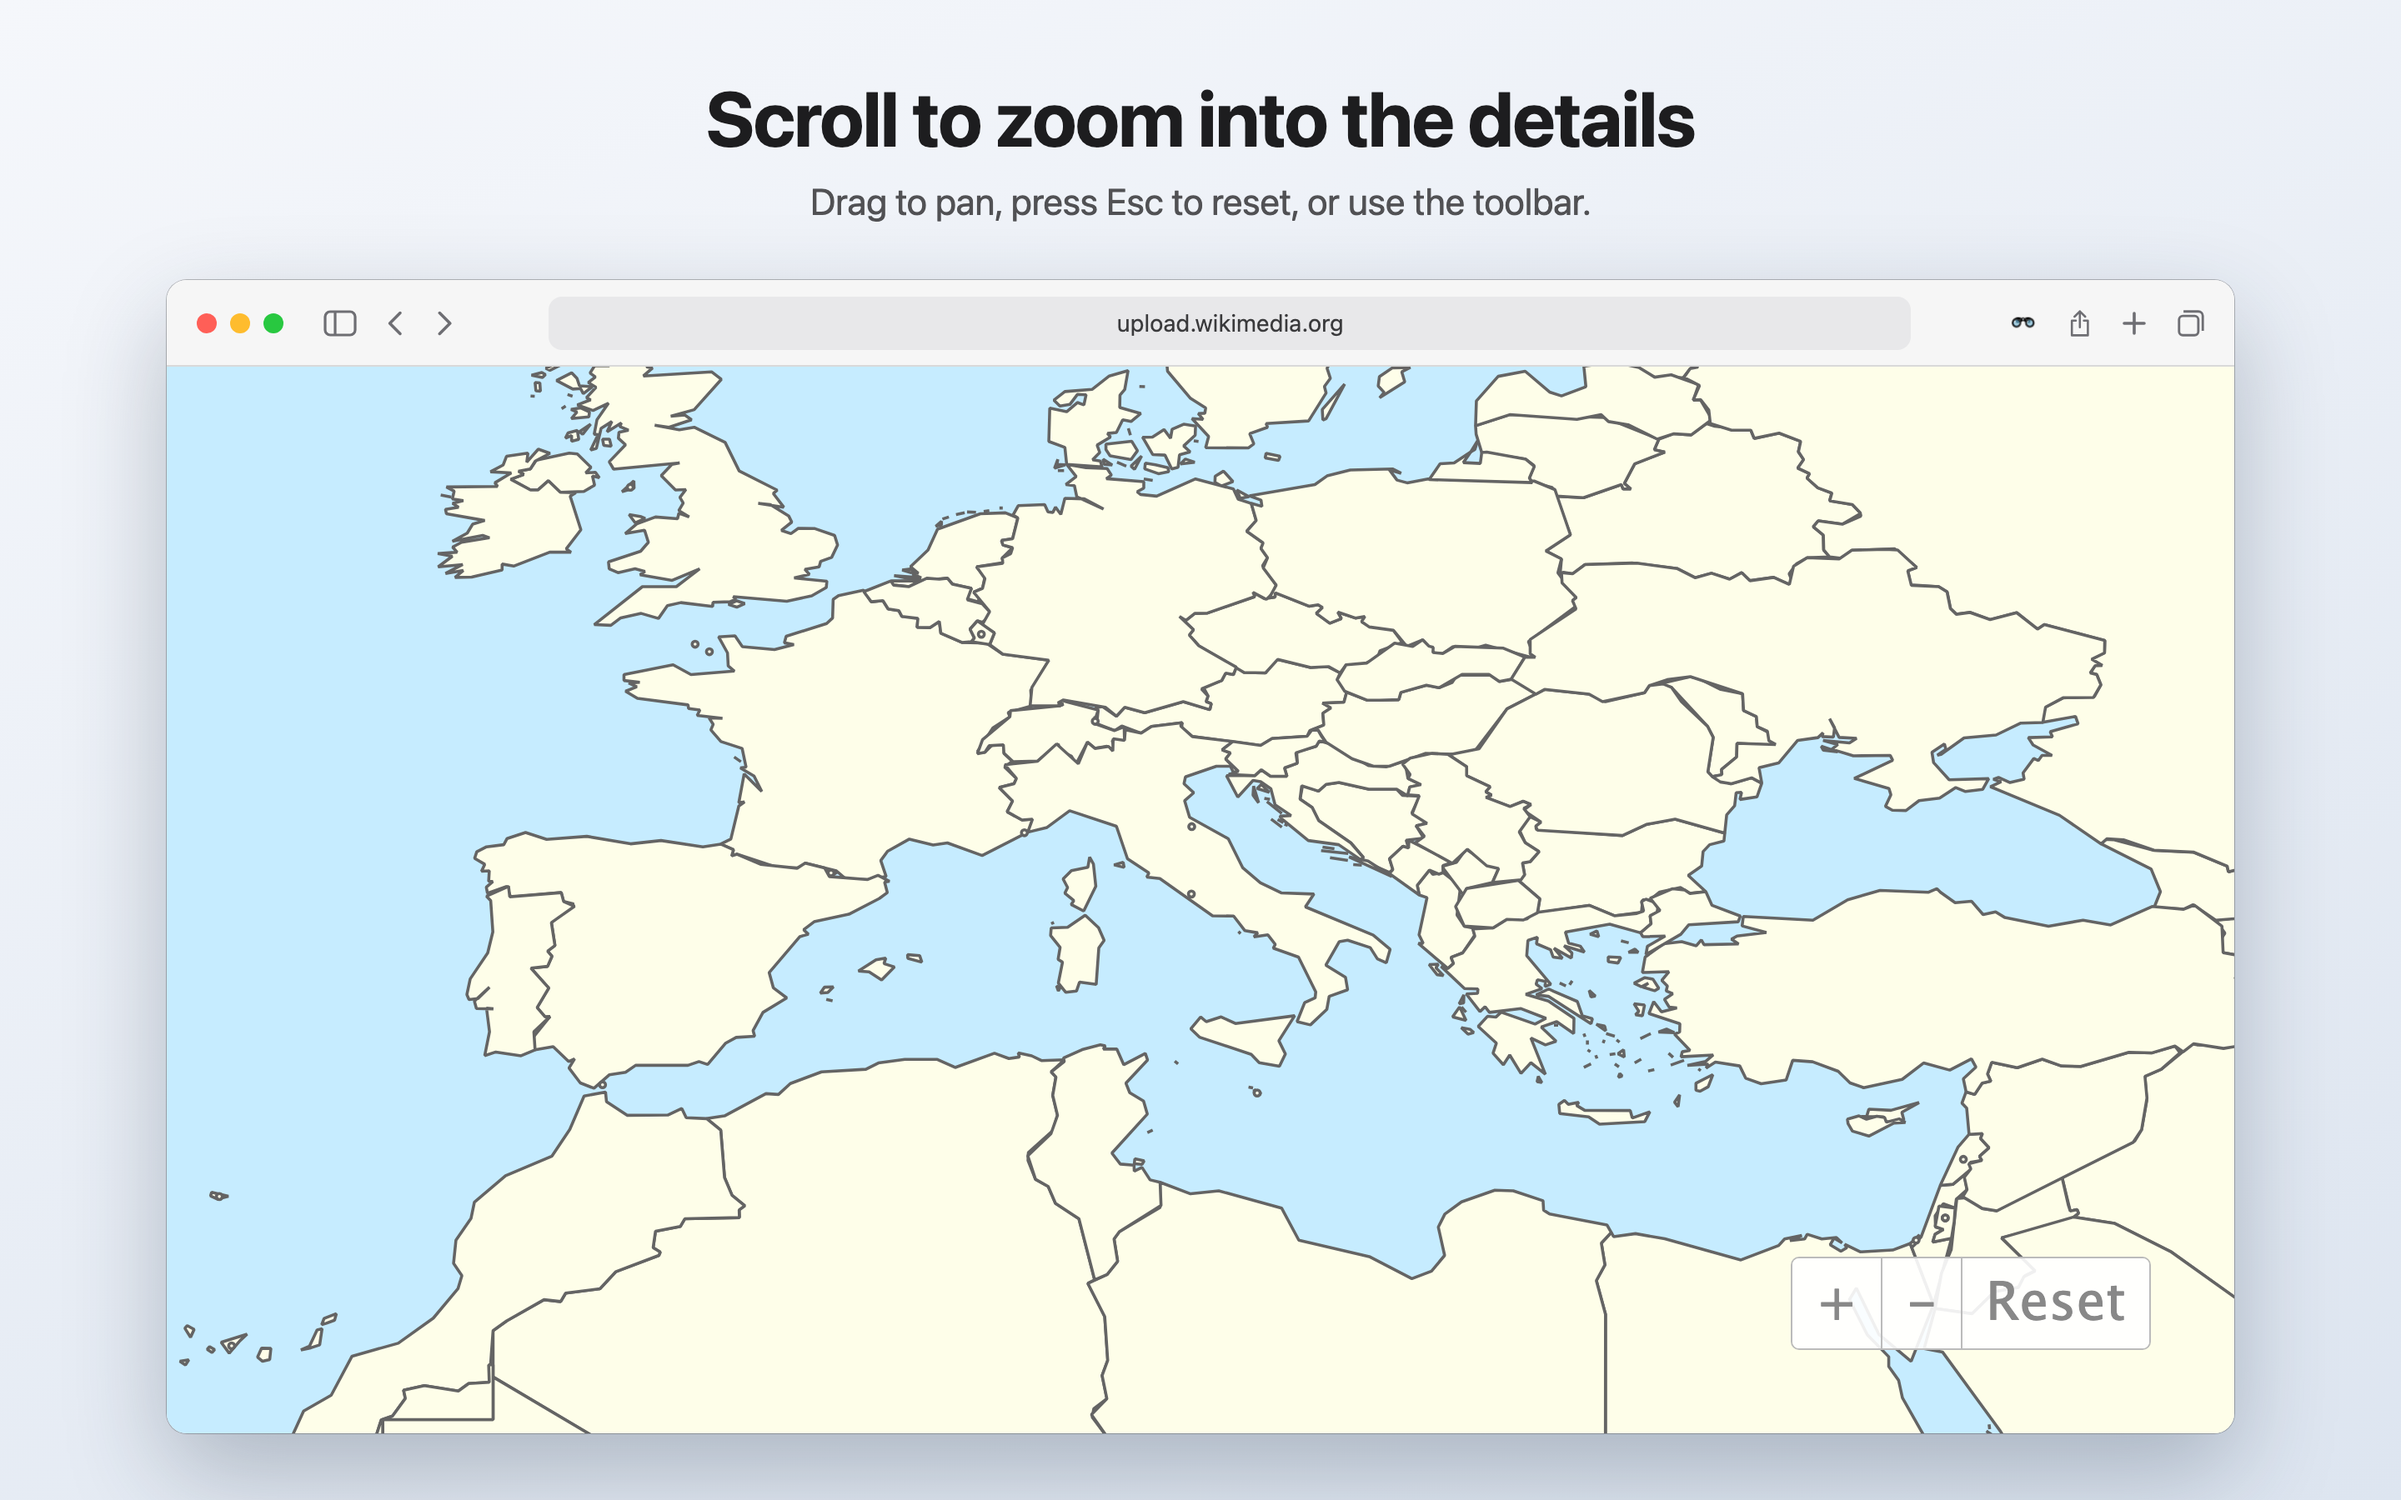
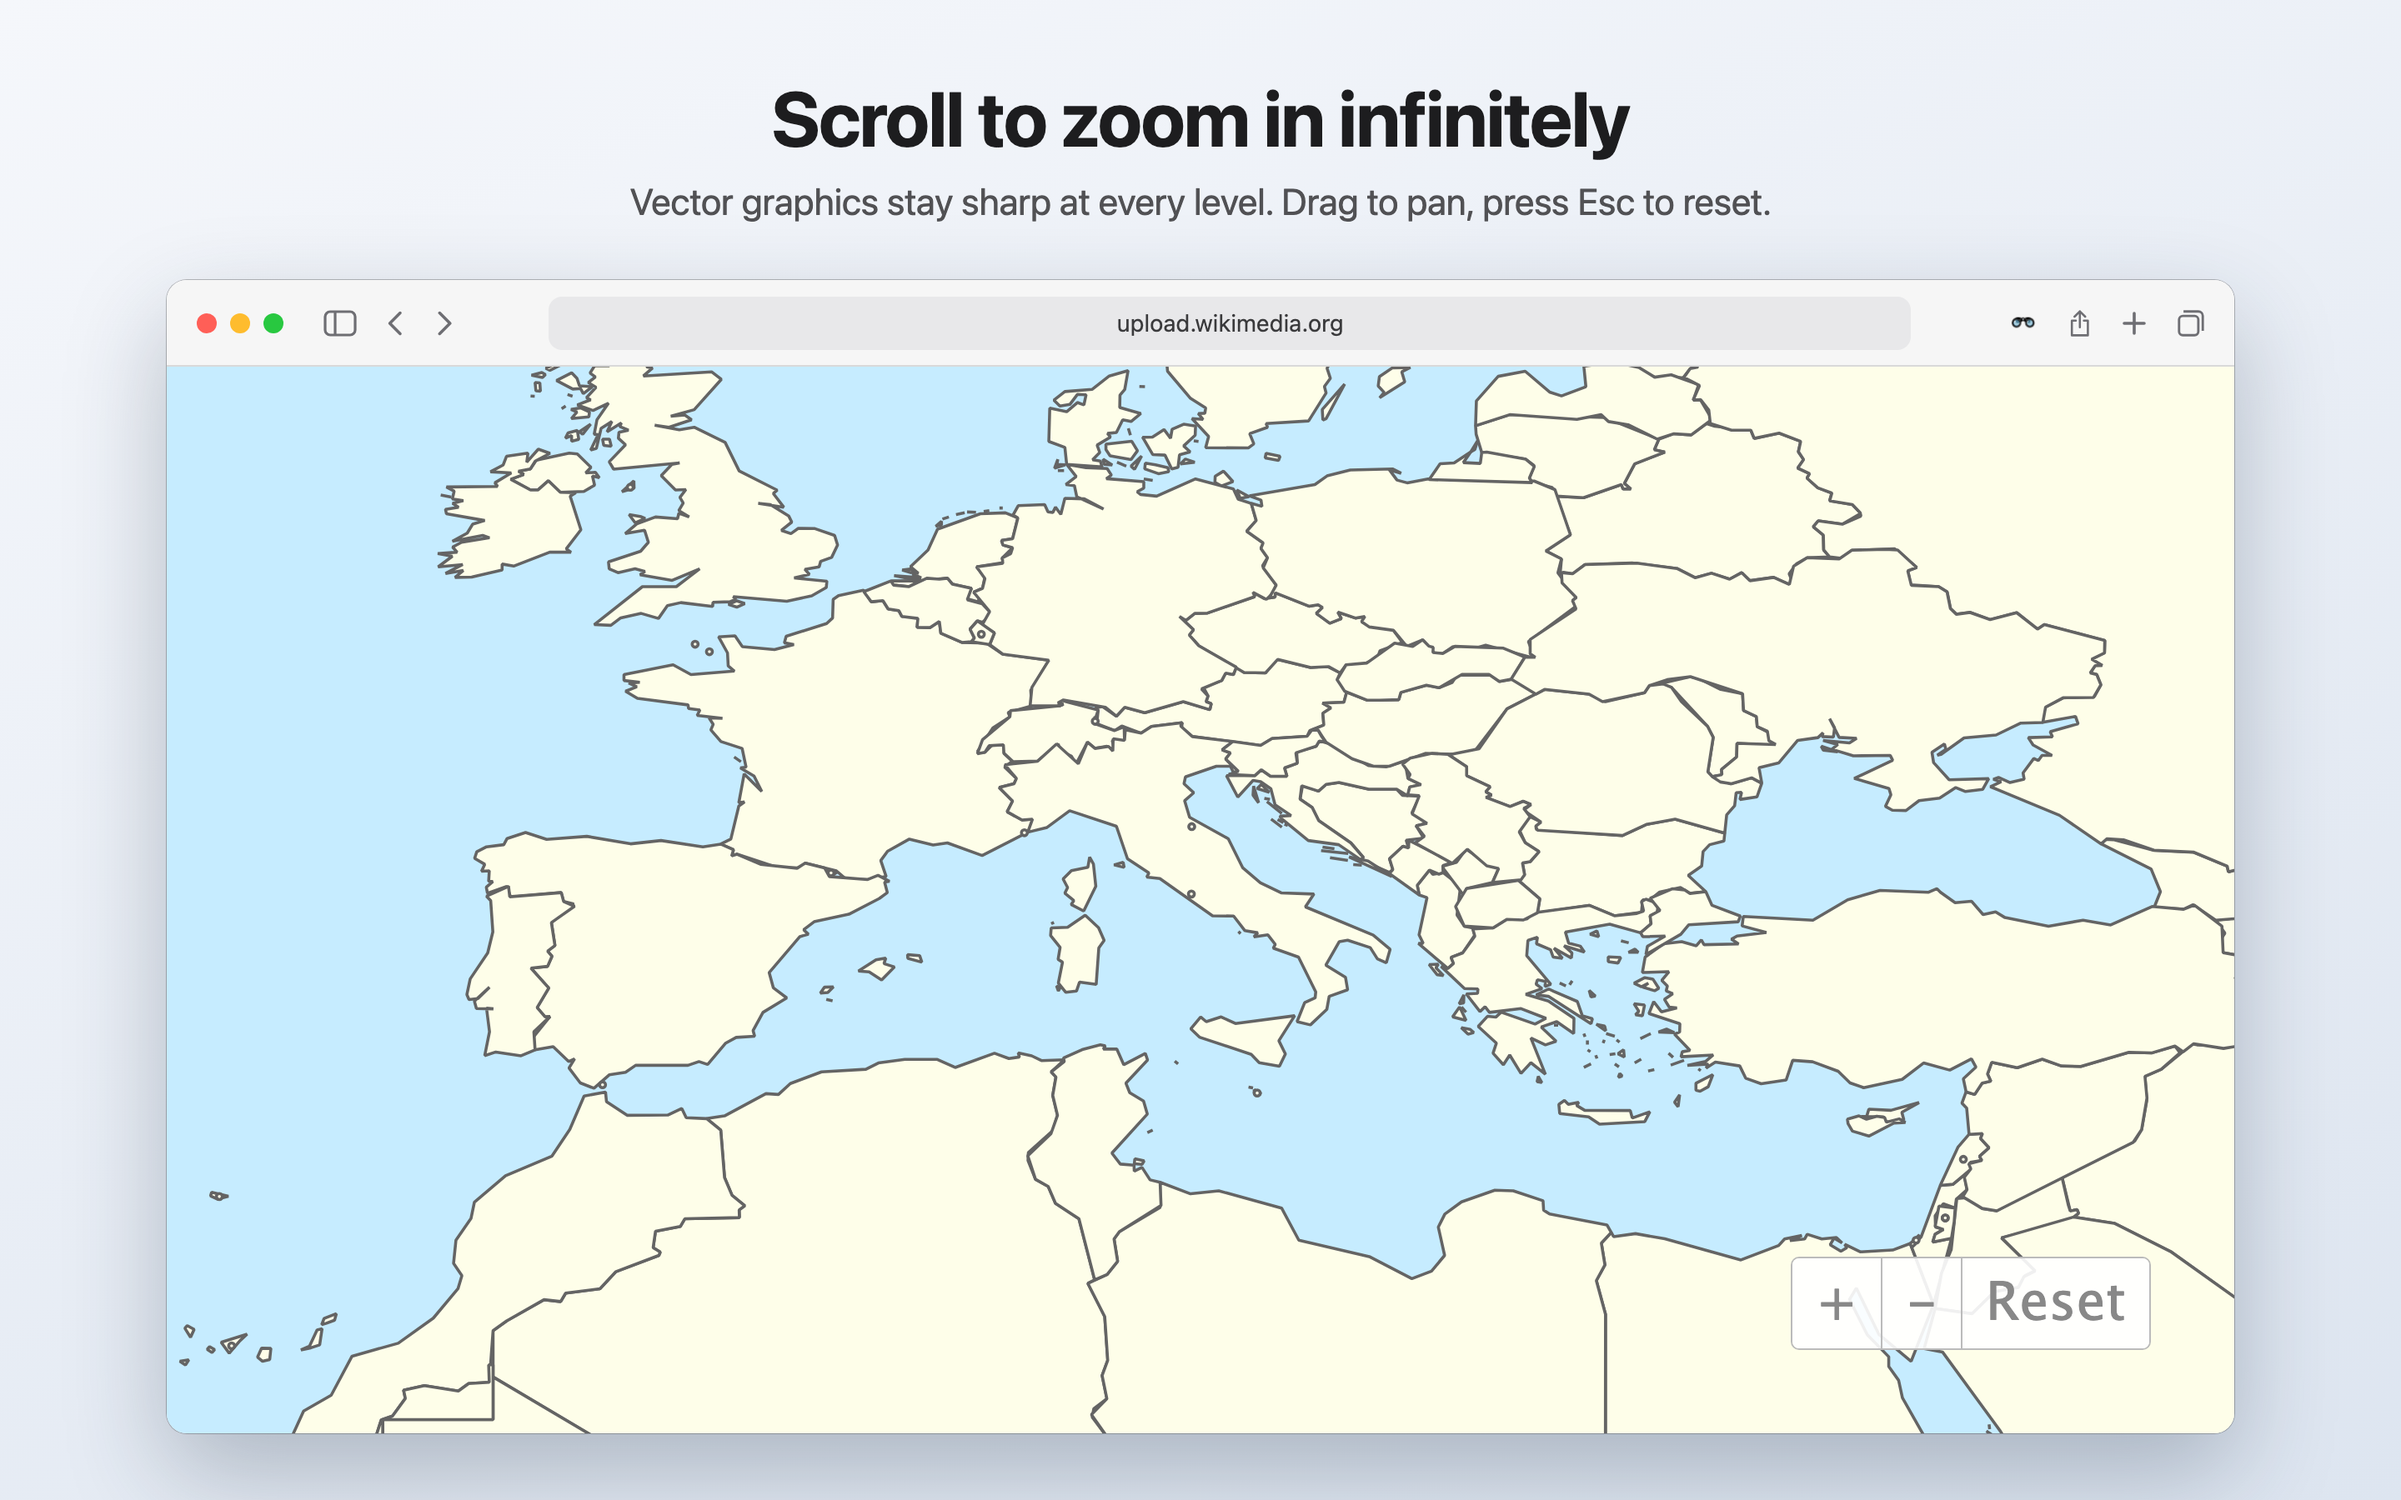
Describe the zoom as infinite in docs, listings, and screenshots
SVGs stay sharp at any scale and the navigator has no zoom limit, so
the extension's descriptions now lead with infinite zoom: the manifest
description (the Chrome and Firefox listings' summary on the next
release), README, package description, popup About text, privacy
policy, Safari app window, Mac App Store listing, and the first two
screenshot captions. Control and feature names (zoom box, zoom
toolbar, Alt to zoom out) stay as they are.

The README notes the real limit: in Chrome the browser's numeric
precision stops zooming after roughly 45 scroll steps, around a
hundred million times in.

Changed region(s): [[0.25, 0.0622, 0.75, 0.1556]]

diff --git a/scripts/appStoreScreenshots.ts b/scripts/appStoreScreenshots.ts
@@ -58,8 +58,8 @@ interface Scene {
 
 const SCENES: Scene[] = [
     {
-        fileName: '01-pan-and-zoom.png',
-        title: 'Pan and zoom any SVG in Safari',
+        fileName: '01-infinite-zoom.png',
+        title: 'Infinite zoom for any SVG in Safari',
         subtitle: 'Open an SVG file and explore it like a map.',
         act: async (page) => {
             await zoom(page, { x: 680, y: 200 }, 4);
@@ -67,8 +67,8 @@ const SCENES: Scene[] = [
     },
     {
         fileName: '02-scroll-to-zoom.png',
-        title: 'Scroll to zoom into the details',
-        subtitle: 'Drag to pan, press Esc to reset, or use the toolbar.',
+        title: 'Scroll to zoom in infinitely',
+        subtitle: 'Vector graphics stay sharp at every level. Drag to pan, press Esc to reset.',
         act: async (page) => {
             await zoom(page, { x: 620, y: 175 }, 7);
             await pan(page, { x: 620, y: 320 }, { x: 560, y: 380 });

diff --git a/src/options/index.html b/src/options/index.html
@@ -109,7 +109,7 @@
 
                 <h2 class="section-title" id="about-title">About</h2>
                 <div class="card prose" role="group" aria-labelledby="about-title">
-                    <p>SVG Navigator adds pan and zoom to SVG files on the web. Open any <code>.svg</code> URL and it takes over the page.</p>
+                    <p>SVG Navigator adds infinite zoom and panning to SVG files on the web. Open any <code>.svg</code> URL and it takes over the page.</p>
                     <p class="links">
                         <a href="https://github.com/pRizz/SVG-Navigator---Chrome-Extension">GitHub</a>
                         <a href="https://chromewebstore.google.com/detail/svg-navigator/pefngfjmidahdaahgehodmfodhhhofkl">Chrome Web Store</a>

diff --git a/safari/SVG Navigator/Resources/Base.lproj/Main.html b/safari/SVG Navigator/Resources/Base.lproj/Main.html
@@ -14,7 +14,7 @@
     <p class="state-unknown">You can turn on SVG Navigator’s extension in Safari Extensions preferences.</p>
     <p class="state-on">SVG Navigator’s extension is currently on. You can turn it off in Safari Extensions preferences.</p>
     <p class="state-off">SVG Navigator’s extension is currently off. You can turn it on in Safari Extensions preferences.</p>
-    <p>Once it’s on, allow SVG Navigator on every website so it can add panning and zooming to the SVG files you open.</p>
+    <p>Once it’s on, allow SVG Navigator on every website so it can add infinite zoom and panning to the SVG files you open.</p>
     <button class="open-preferences">Quit and Open Safari Extensions Preferences…</button>
 </body>
 </html>

diff --git a/store/app-store/listing.md b/store/app-store/listing.md
@@ -7,7 +7,7 @@ Screenshots are in `screenshots/` (regenerate with `bun run screenshots:app-stor
 ## App Information
 
 - **Name** [30]: SVG Navigator
-- **Subtitle** [30]: Pan and zoom SVGs in Safari
+- **Subtitle** [30]: Infinitely zoom SVGs in Safari
 - **Primary category**: Developer Tools
 - **Secondary category**: Graphics & Design
 - **Content rights**: Doesn't contain, show, or access third-party content
@@ -32,22 +32,22 @@ Screenshots are in `screenshots/` (regenerate with `bun run screenshots:app-stor
 ### Promotional text [170]
 
 <!-- promotional-text -->
-Open an SVG in Safari and explore it like a map: scroll to zoom, drag to pan, or drag a box to zoom straight to the part you need.
+Open an SVG in Safari and zoom in infinitely: scroll into any detail, drag to pan, or drag a box to zoom straight to the part you need.
 <!-- /promotional-text -->
 
 ### Keywords [100, comma-separated]
 
 <!-- keywords -->
-svg,zoom,pan,vector,viewer,map,diagram,graphics,drawing,chart,image,scalable,magnify,explore
+svg,infinite,zoom,pan,vector,viewer,map,diagram,graphics,drawing,chart,scalable,magnify,explore
 <!-- /keywords -->
 
 ### Description [4000]
 
 <!-- description -->
-SVG Navigator adds panning and zooming to the SVG files you open in Safari, so big maps, diagrams, and illustrations are easy to explore instead of being stuck at one size.
+SVG Navigator adds infinite zoom and panning to the SVG files you open in Safari. SVGs are vector graphics that stay sharp at any size, so you can keep zooming into big maps, diagrams, and illustrations for as long as there is detail to see.
 
 Open an SVG file and:
-• Scroll to zoom in and out at the pointer
+• Scroll to zoom in infinitely, or back out, at the pointer
 • Drag to pan, or hold Space and move the pointer
 • Drag a box around exactly the area you want to see (zoom box mode)
 • Press Esc to reset the view, or Option to zoom out

diff --git a/README.md b/README.md
@@ -5,7 +5,7 @@ SVG Navigator
 
 Description
 --------------------------------
-SVG Navigator is a browser extension that adds pan and zoom features to existing SVG files on the web.
+SVG Navigator is a browser extension that adds infinite zoom and panning to existing SVG files on the web.
 
 Note
 --------------------------------
@@ -19,10 +19,13 @@ Usage
 --------------------------------
 Go to a website with an SVG file. The extension begins working on the SVG graphic and you may:
 * Pan: click and drag or hold the space bar and drag the cursor to pan around the image
-* Zoom in or out: use mouse scroll wheel
+* Zoom in infinitely, or back out: use the mouse scroll wheel
 * Zoom: click and drag a zoom box of the desired area if enabled
 * Zoom out: tap alt key
 * Reset zoom: press escape
+
+SVGs are vector graphics, so they stay sharp however far you zoom in. SVG Navigator has no zoom
+limit; only the browser's numeric precision stops it, many millions of times in.
 Trying to pan on an SVG by shift click and dragging currently causes undesirable panning; possibly a Google Chrome bug/feature.
 If you want to view local files with this extension, you must enable "Allow access to file URLs" in Chrome's Extensions view.
 
@@ -167,7 +170,7 @@ editing `src/` and Firefox reloads the extension automatically.
 
 The extension is written in TypeScript:
 
-- `src/js/svgNavigator.ts`: the content script that adds panning and zooming to SVG documents
+- `src/js/svgNavigator.ts`: the content script that adds infinite zoom and panning to SVG documents
 - `src/options/`: the toolbar popup with the settings (`index.html`, `options.ts`, `options.css`)
 - `src/shared/settings.ts`: the settings, their defaults, and their storage in `chrome.storage.sync`
 

diff --git a/PRIVACY.md b/PRIVACY.md
@@ -8,7 +8,7 @@ that installs it in Safari, does not collect, store, sell, or share any personal
 - **No data collection.** SVG Navigator doesn't use analytics, tracking, advertising, or
   crash reporting, and it never sends anything to the developer or anyone else.
 - **No network requests.** The extension works entirely on your device. It reads the SVG
-  file you are viewing only to add panning and zooming to it, and it doesn't send that
+  file you are viewing only to add infinite zoom and panning to it, and it doesn't send that
   file, or anything about it, anywhere.
 - **Settings stay with your browser.** Your SVG Navigator settings (such as scroll
   sensitivity and background color) are saved in your browser's extension storage. Your
